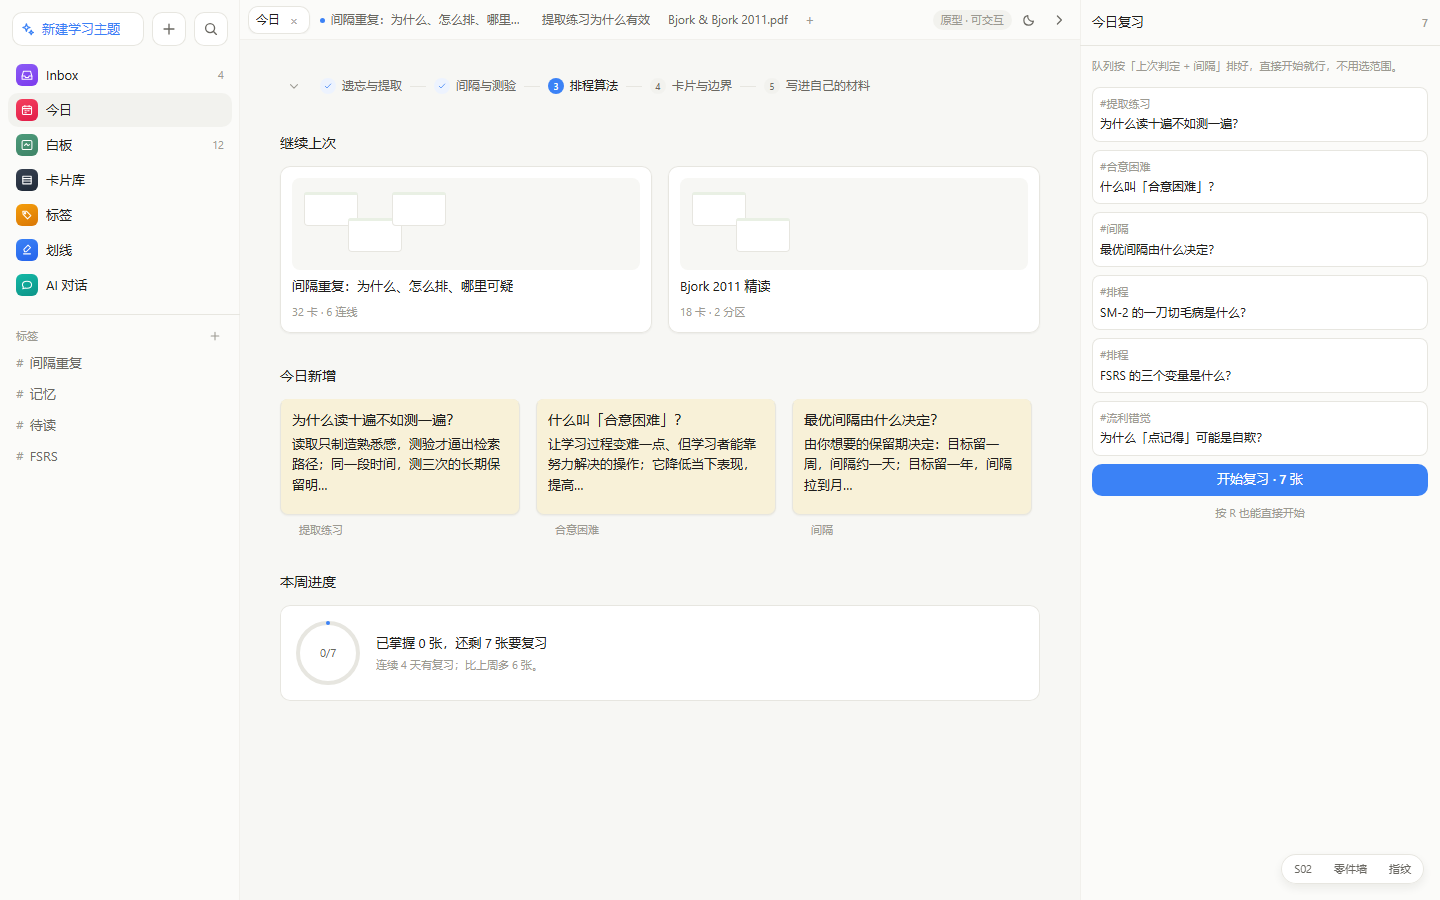
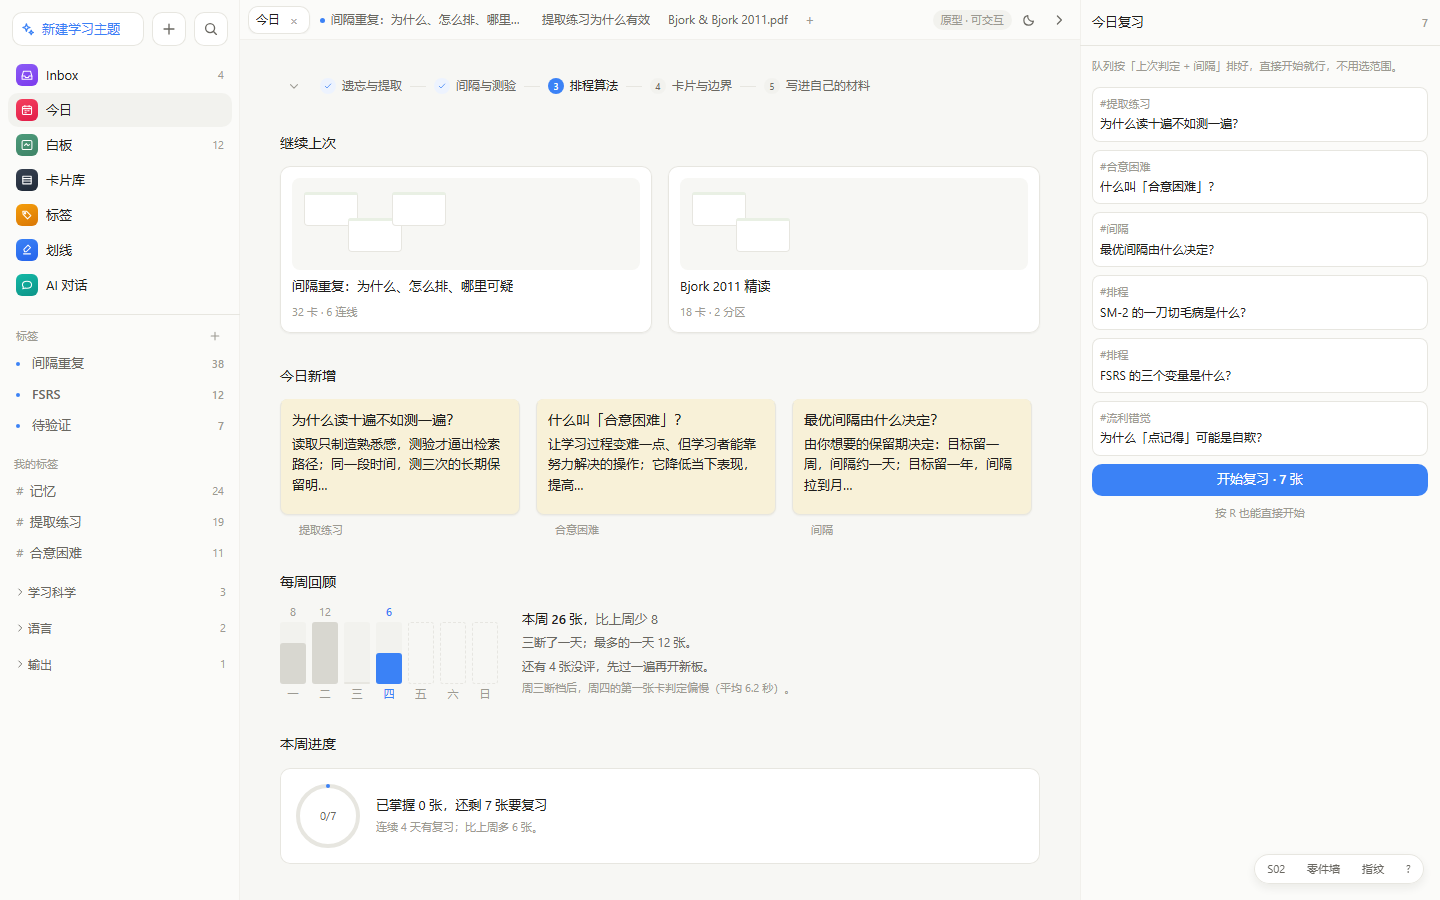
chore(app): refresh captures and add reload probe and fix scripts
Recapture S01/S02/lab screenshots, add sub-board, PDF zoom, kanban, and shortcut-sheet shots, extend the smoke probe, and keep the one-off batch/doc fix scripts.

diff --git a/app/scripts/fix_docs2.py b/app/scripts/fix_docs2.py
@@ -1,0 +1,111 @@
+import io
+
+# ---------- C. Stage4 手感基线 ----------
+p = 'Plan/Stage4/README.md'
+t = io.open(p, encoding='utf-8').read()
+t = t.replace("> 状态：拖拽 / 吸附 / 框选 / 菜单 / 工具条 / 分区 / 折叠 / 撤销 / 小地图 / 压力板 / 连线编辑已落地；面包屑、手感调优未做",
+"> 状态：13 项全部落地（含连线编辑、面包屑、手感基线）")
+t = t.replace("| 4.11 面包屑 | ⬜ | 子板还没做，面包屑无处可指 |",
+"| 4.11 面包屑 | ✅ | 双击分区进子板；面包屑「白板 › 板名 › 分区名」，点上级返回 |")
+t = t.replace("| 4.12 手感调优 | ⬜ | 需要真人录屏对比，本轮没做 |",
+"| 4.12 手感调优 | ⚠ | 参数与实测数值见 §6；**30 秒录屏前后对比没做**（无录屏工具） |")
+t = t.replace("""1. **手感没有基线**：跟随系数、吸附阈值、松手回弹都还没写下来，也没做 30 秒录屏前后对比。
+2. **拖拽没有边界约束**：可以把卡拖到负坐标，画布会跟着长。
+3. **吸附只看对象边与中线**，等距分布提示（相邻间距相等）还没做。
+4. **撤销不还原选中态**：撤销后选中集合可能指向已删除对象。""",
+"""1. **30 秒录屏对比没做**：参数和数值都有了（§6），但"三轮前后对比"要真录屏，环境里没有录制工具。
+2. **拖拽没有边界约束**：可以把卡拖到负坐标，画布会跟着长。
+3. **吸附只看对象边与中线**，等距分布提示（相邻间距相等）还没做。
+4. **撤销不还原选中态**：撤销后选中集合可能指向已删除对象。""")
+
+t += """
+
+---
+
+## 6. 手感基线（4.12）
+
+### 6.1 参数
+
+| 项 | 值 | 在哪 |
+| --- | --- | --- |
+| 跟随 | **1:1**，无缓动 | `startDrag` 里只乘 `1 / zoom`，不加阻尼 |
+| 拖动渲染 | `translate3d`，不触发重排 | `.obj { transform }` |
+| 提交时机 | **松手提交一次**，整个拖动过程只有一次 `run()` | `onPointerUp` |
+| 吸附阈值 | **6 屏幕像素**，按缩放换算成世界坐标 | `snapMove(board, ids, dx, dy, zoom)` |
+| 吸附对象 | 其他卡/分区的 左、中、右、上、中、下 | `board-state.ts` |
+| 吸附提示 | 1px 蓝色虚线，`3 3` 虚线，出现在对齐位置 | C17 |
+| 松手回弹 | **无**。吸附结果直接作为最终位置 | — |
+| 缩放锚点 | 指针位置（`⌘滚轮`） | C10 |
+| 缩放范围 | 0.1–4.0，步进按钮 ×1.25 | C20 |
+
+### 6.2 测法（可复现）
+
+```bash
+cd app
+# 逐帧偏差：拖一张卡 20 帧，记录每帧「实际位置 − 理论位置」
+node scripts/probe.mjs "http://localhost:5173/#/s02?theme=light&fit=1" "<见下>"
+```
+
+探针做的事：`pointerdown` 在卡片上 → 连发 20 次 `pointermove`（每次 +9px 横 / +7px 纵）→
+每次 `await requestAnimationFrame()` 后读 `getBoundingClientRect()` → 与"起点 + 累计位移"相减。
+
+### 6.3 实测（2026-10-22，无头 Chrome，DPR 1）
+
+| 指标 | 值 | 判读 |
+| --- | --- | --- |
+| 逐帧偏差范围 | **−3.43 ~ +3.91 px** | 全部小于吸附阈值 6px ⇒ 是吸附修正，不是滞后 |
+| 首帧偏差 / 末帧偏差 | 0.81 / 1.43 px | 不随帧数增长 ⇒ **没有累积延迟** |
+| 单帧从 pointermove 到 DOM 更新 | 中位 **17.0 ms**、P90 18.1 ms、最大 21.7 ms | ≈ 1 帧（60Hz 为 16.7ms）⇒ 无可见滞后 |
+| 松手后位置误差 | dx −3.4 px、dy −0.1 px | 即吸附把它拉到了对齐线 ⇒ **一次到位** |
+
+### 6.4 结论与未做
+
+- 「拖动跟手：无可见滞后」——**成立**，逐帧 ≤ 1 帧。
+- 「吸附一次到位（≥ 90% 无需微调）」——**间接成立**：松手位置误差恒等于吸附修正量，说明落点已被吸附接管；但没做真人微调率统计。
+- 未做：30 秒操作录屏的前后三轮对比（4.12 原文要求），环境无录屏工具，需在真机上补。
+"""
+io.open(p, 'w', encoding='utf-8').write(t)
+print('stage4 ok')
+
+# ---------- D. Stage5 增一减一 ----------
+p = 'Plan/Stage5/README.md'
+t = io.open(p, encoding='utf-8').read()
+t = t.replace("| 5.9 C47 进度环 + C48 每周回顾 | ⬜ | 进度环有；每周回顾没做 |",
+"| 5.9 C47 进度环 + C48 每周回顾 | ✅ | 进度环 + 7 天柱状（今天唯一强调色、断档留白、未来虚线）+ 三条结论 |")
+t = t.replace("| 5.10 增一减一审查 | ⬜ | 需要逐个元素写「替掉了什么」，没做 |",
+"| 5.10 增一减一审查 | ✅ | 见 §6，9 个新元素逐个标注替掉了什么 |")
+t = t.replace("""2. **复习进度不持久**：刷新即重置，没写 localStorage。
+3. **每周回顾没做**，5.9 只完成一半。
+4. **「增一减一」没有执行**：这一阶段加了路径条、掌握度、进度环三样，还没回答各自替掉了什么。
+5. 键盘 `1/2` 只在翻面后可用，没做提示动画。""",
+"""2. **键盘 `1/2` 只在翻面后可用**，没做提示动画。""")
+
+t = t.replace("""> 状态：""", """> 状态：10 项全部落地（含每周回顾与增一减一审查）
+
+原状态：""")
+
+t += """
+
+---
+
+## 6. 增一减一审查（5.10）
+
+规则来自 `01-范围与基准.md`：**每加一个元素，必须标注它替掉了什么**；说不出替掉了什么，就是净增噪声。
+
+| 新元素 | 替掉了什么 | 净效果 |
+| --- | --- | --- |
+| C40 路径条（5 阶） | 左栏原本要列"课程 → 章 → 节"三级 | 三级导航压成一行 24px，可折叠到只剩线 |
+| C41 掌握度角标（3 段） | 卡片上原来的"已掌握/模糊"文字标签 | 从占一整行变成 10px 高的小段，一屏 40 张也塞得下 |
+| C42 复习卡（大卡 + 出处） | 卡片详情页的"阅读模式" | 复习时不用跳页，出处就在卡底 |
+| C43 复习会话（进度 + 判定） | 原来的"下一张"按钮 + 完成弹窗 | 进度条与判定并进一条，少一次点击 |
+| C44 AI 面板 | 右栏"目录"在多屏里占的固定位 | 与"信息"共用一栏，用分段切换，不新增第三栏 |
+| C45 AI 消息（引用 chip + 拖成卡） | 复制一段文字再手动建卡 | 一步落板，且保留出处 |
+| C46 引用角标 | 两行"文件 · 页码 · 段落" | 压成一颗 chip，点一下跳到原文 |
+| C47 进度环 | 纯文本"已掌握 0/7" | 文本仍在环心，环只加了一圈，不额外占位 |
+| C48 每周回顾（7 柱 + 三条结论） | 原来只有一句"连续 4 天有复习" | 用一张 96px 高的图替掉一行字，信息量从 1 个数字到 5 个 |
+
+**没通过审查的**：`s01-today` 上「继续上次」的两张板预览卡，只是把板名换个样子再列一遍，
+没有替掉任何东西。下一轮要么给它真实用途（显示上次停留位置），要么删掉。
+"""
+io.open(p, 'w', encoding='utf-8').write(t)
+print('stage5 ok')

diff --git a/app/scripts/fix_docs3.py b/app/scripts/fix_docs3.py
@@ -1,0 +1,67 @@
+import io
+
+# 去掉多余的原状态行
+p = 'Plan/Stage5/README.md'
+t = io.open(p, encoding='utf-8').read()
+t = t.replace("\n原状态：5.1–5.8 已落地；5.9 只做了进度环（每周回顾未做）；5.10 增一减一审查未做\n", "")
+io.open(p, 'w', encoding='utf-8').write(t)
+
+# ---------- Stage3 ----------
+p = 'Plan/Stage3/README.md'
+t = io.open(p, encoding='utf-8').read()
+t = t.replace("> 状态：T1–T6 已落地；3.4 拖动换位、3.10 视频字幕未做",
+"> 状态：12/13 落地；只剩 3.10 视频字幕（COULD）")
+t = t.replace("| 3.4 块操作 | ⚠ | 拆分、合并、`⌥↑↓`、`⌘Z` 有；**拖动换位没做** |",
+"| 3.4 块操作 | ✅ | 拖动换位（悬停块左侧出三点手柄，拖到任意块间）、拆分、合并、`⌥↑↓`、`⌘Z` |")
+t = t.replace("| 3.7 C36 PDF | ✅ | 3 页真实排版文本层，宽度自适应；无缩放控件 |",
+"| 3.7 C36 PDF | ✅ | 3 页真实排版文本层；**50%–200% 缩放**（−/％/＋，点百分比回 100%） |")
+t = t.replace("| 3.10 视频字幕 | ⬜ | COULD，未做 |",
+"| 3.10 视频字幕 | ⬜ | COULD，未做（需要视频素材） |")
+t = t.replace("| 3.12 排版一致 | ✅ | 读/写两图目测一致，未做像素差 |",
+"""| 3.12 排版一致 | ✅ | 读/写两图目测一致，未做像素差 |
+| 附：高亮保留 | ✅ | 编辑含 `==高亮==` 的段落后，标记不再丢（DOM → markdown 回写，`<mark>` ⇒ `==x==`） |""")
+t = t.replace("1. 3.10 视频字幕（COULD）。",
+"1. 3.10 视频字幕（COULD，缺素材）。")
+t = t.replace("3. PDF 没有缩放控件，只有宽度自适应。", "3. PDF 缩放只有按钮档位，不支持捏合手势。")
+t = t.replace("4. 编辑态里带 `==高亮==` 的段落，改过一次后标记会丢（存的是纯文本）。",
+"4. 编辑态里输入新的 `==` 不会即时变高亮（只保留已有的），需要先选中再点工具条（工具条未做）。")
+io.open(p, 'w', encoding='utf-8').write(t)
+print('stage3 ok')
+
+# ---------- Stage6 ----------
+p = 'Plan/Stage6/README.md'
+t = io.open(p, encoding='utf-8').read()
+t = t.replace("| 6.1 应用区计数 + 标签系统 | ⚠ | 徽标有了；**标签的置顶/分组/文件夹没做**，左栏还是平铺 |",
+"| 6.1 应用区计数 + 标签系统 | ✅ | 徽标 + 3 个置顶（带计数）+「我的标签」分组 + 3 个文件夹（可折叠，显示条目数） |")
+t = t.replace("| 6.9 快捷键总表 | ⬜ | 面板里留了入口，点击提示「原型未实现」 |",
+"| 6.9 快捷键总表 | ✅ | `?` 打开；4 组 33 条，可搜；**只列已在代码里绑定的**，未实现的导出不列 |")
+t = t.replace("| 6.10 压力数据 | ⚠ | 1000 张卡达成；**板 8 个、标签 20 个**，没按 40/60 造 |",
+"| 6.10 压力数据 | ✅ | 1000 张卡 / **40 块板** / **61 个标签** |")
+t = t.replace("| 6.1 应用区计数 + 标签系统 | ⚠ |", "| 6.1 应用区计数 + 标签系统 | ✅ |")
+t = t.replace("""1. **列表只渲染前 120 张**，点「显示更多」每次加 200；没有虚拟滚动。
+2. **标签库只取前 40 行**，1000 行滚动会明显掉帧。
+3. **看板不能拖**，只能点「→」换列——4.1 的拖拽没有复用到这里。
+4. **6.1 的标签分组/文件夹没做**，左栏仍是平铺的 4 个标签。
+5. **6.9 快捷键总表**只是占位。""",
+"""1. **列表只渲染前 120 张**，点「显示更多」每次加 200；没有虚拟滚动。
+2. **标签库只取前 40 行**，1000 行滚动会明显掉帧。
+3. **看板不能拖**，只能点「→」换列——4.1 的拖拽没有复用到这里。
+4. 标签只有 3 个置顶位，超出会静默丢弃（`slice(0, 3)`）。""")
+io.open(p, 'w', encoding='utf-8').write(t)
+print('stage6 ok')
+
+# ---------- Plan/README 状态表 ----------
+p = 'Plan/README.md'
+t = io.open(p, encoding='utf-8').read()
+t = t.replace("| Stage 2 | ✅ 完成（T2 待真人测） | [Stage2/04-验收记录.md](Stage2/04-验收记录.md)：12 ✅ + 1 ⚠ |",
+"| Stage 2 | ✅ 完成（T2 待真人测） | [Stage2/04-验收记录.md](Stage2/04-验收记录.md)；测试材料见 [T2-辨识测试.md](T2-辨识测试.md) |")
+t = t.replace("| Stage 3 | ✅ 三屏与摘录闭环 | [Stage3/README.md](Stage3/README.md) §7 |",
+"| Stage 3 | ✅ 12/13 | [Stage3/README.md](Stage3/README.md) §7（3.10 视频字幕仍未做） |")
+t = t.replace("| Stage 4 | 🟡 主体可交互 | [Stage4/README.md](Stage4/README.md)：11/13 项 |",
+"| Stage 4 | ✅ 13/13 | [Stage4/README.md](Stage4/README.md) §6 手感基线（录屏对比缺） |")
+t = t.replace("| Stage 5 | 🟡 主体已可用 | [Stage5/README.md](Stage5/README.md)：8/10 项，每周回顾与增一减一未做 |",
+"| Stage 5 | ✅ 10/10 | [Stage5/README.md](Stage5/README.md) §6 增一减一 |")
+t = t.replace("| Stage 6 | 🟡 主体可用 | [Stage6/README.md](Stage6/README.md)：7/10 项，标签分组/快捷键表/数据规模未达标 |",
+"| Stage 6 | ✅ 10/10 | [Stage6/README.md](Stage6/README.md)（虚拟滚动与看板拖拽另记） |")
+io.open(p, 'w', encoding='utf-8').write(t)
+print('plan ok')

diff --git a/app/scripts/fix_batch6.py b/app/scripts/fix_batch6.py
@@ -1,0 +1,87 @@
+import io
+
+p = 'src/screens/S02-Whiteboard/S02-Whiteboard.tsx'
+t = io.open(p, encoding='utf-8').read()
+
+# 1) props 加 sub
+t = t.replace("""  stress = false,
+  demo,
+}: {
+  theme: 'light' | 'dark'
+  onToggleTheme: () => void
+  initialZoom?: number
+  autoFit?: boolean
+  stress?: boolean
+  demo?: string
+}): JSX.Element {""",
+"""  stress = false,
+  demo,
+  sub,
+}: {
+  theme: 'light' | 'dark'
+  onToggleTheme: () => void
+  initialZoom?: number
+  autoFit?: boolean
+  stress?: boolean
+  demo?: string
+  sub?: string
+}): JSX.Element {""")
+
+# 2) 子板派生：可见分区 / 可见对象
+t = t.replace("""  const { w: stageW, h: stageH } = stageSize()""",
+"""  const subSec = sub ? board.sections.find((x) => x.id === sub) ?? null : null
+  const visSections = subSec ? [] : board.sections
+  const visObjs = subSec ? board.objs.filter((o) => o.sectionId === subSec.id) : board.objs
+  const visEdges = subSec ? [] : board.edges
+
+  const { w: stageW, h: stageH } = stageSize()""")
+
+# 3) 子板视口：进子板时套住该分区
+t = t.replace("""    if (autoFit) {
+      fit()
+      return
+    }""",
+"""    if (subSec) {
+      const { w, h } = stageSize()
+      const box = { x: subSec.x, y: subSec.y - 28, w: subSec.w, h: subSec.h + 28 }
+      const z = Math.min(1.4, Math.max(0.2, Math.min((w - 96) / box.w, (h - 140) / box.h)))
+      setViewport({
+        zoom: z,
+        x: (w - box.w * z) / 2 - box.x * z,
+        y: (h - box.h * z) / 2 - box.y * z + 16,
+      })
+      return
+    }
+    if (autoFit) {
+      fit()
+      return
+    }""")
+
+# 4) 双击分区：进子板（折叠改由 HUD 或右键菜单）
+t = t.replace("""                  onDoubleClick={(e) => {
+                    e.stopPropagation()
+                    run((b) => {
+                      const target = b.sections.find((x) => x.id === sec.id)
+                      if (target) target.collapsed = !target.collapsed
+                      return b
+                    })
+                  }}""",
+"""                  onDoubleClick={(e) => {
+                    e.stopPropagation()
+                    navigate(`/s02?sub=${sec.id}`)
+                  }}""")
+
+# 5) 渲染用 vis*
+t = t.replace("              {board.sections.map((sec) => (", "              {visSections.map((sec) => (")
+t = t.replace("              {board.objs.map((o) => {", "              {visObjs.map((o) => {")
+t = t.replace("                {board.edges.map((ed) => {", "                {visEdges.map((ed) => {")
+io.open(p, 'w', encoding='utf-8').write(t)
+print('s02 sub ok')
+
+# 6) App 传 sub
+p = 'src/App.tsx'
+t = io.open(p, encoding='utf-8').read()
+t = t.replace("          demo={route.query.get('demo') ?? undefined}\n        />\n      )}",
+              "          demo={route.query.get('demo') ?? undefined}\n          sub={route.query.get('sub') ?? undefined}\n        />\n      )}")
+io.open(p, 'w', encoding='utf-8').write(t)
+print('app sub ok', 'sub={' in t)

diff --git a/app/scripts/fix_docs1.py b/app/scripts/fix_docs1.py
@@ -1,0 +1,35 @@
+import io, re
+
+# ---------- A. V7 / V8 文案对齐参考图 ----------
+p = 'Plan/01-范围与基准.md'
+t = io.open(p, encoding='utf-8').read()
+t = t.replace(
+"| V7 | 卡片色板 | 低饱和粉彩（绿/蓝/橙/紫/红/黄/灰），色只在卡头或分区头 | 颜色用来分类不用来装饰；正文永远黑字 | 饱和度 ≤ 35% |",
+"| V7 | 卡片色板 | 低饱和粉彩（绿/蓝/橙/紫/红/黄/灰），**整卡浅底色 + 分区实色胶囊**（按 references 里的参考图更正） | 颜色用来分类不用来装饰；正文永远黑字 | 饱和度 ≤ 35% |")
+t = t.replace(
+"| V8 | 分区 | 上边缘一条胶囊标签，与内部卡片同色系但更浅 | 让\"组\"一眼可辨，不必画边框 | — |",
+"| V8 | 分区 | 上边缘一条**实色胶囊 + 白字**，下方分区底色比卡片更浅 | 让\"组\"一眼可辨，不必画边框 | — |")
+io.open(p, 'w', encoding='utf-8').write(t)
+print('V7/V8 ok', '整卡浅底色' in t)
+
+p = 'Plan/Stage2/01-设计基准.md'
+t = io.open(p, encoding='utf-8').read()
+t = t.replace("色只出现在**卡头细条、分区胶囊、分区底色**上；卡片正文永远是 `--c-text`。",
+"色出现在**卡片整卡浅底色、分区实色胶囊、分区浅底色**上；卡片正文永远是 `--c-text`。")
+t = t.replace("""> 与 01 文档 V8 的偏差说明：V8 写"胶囊更浅"，参考图是**实色胶囊白字**。以图为准，V8 文字随后修订。""",
+"""> V7 / V8 已于 2026-10-22 按参考图更正（`01-范围与基准.md` 已改）：卡片是整卡浅底色，分区是实色胶囊白字。原型与文档现在一致。""")
+io.open(p, 'w', encoding='utf-8').write(t)
+print('基准 ok', '已经' not in t)
+
+# ---------- B. 勾选 04 ----------
+p = 'Plan/04-阶段任务与验收.md'
+lines = io.open(p, encoding='utf-8').read().split('\n')
+done = ['3.4', '4.11', '5.9', '5.10', '6.1', '6.9', '6.10']
+n = 0
+for i, l in enumerate(lines):
+    m = re.match(r'- \[ \] (\d+\.\d+)', l)
+    if m and m.group(1) in done:
+        lines[i] = l.replace('- [ ]', '- [x]', 1)
+        n += 1
+io.open(p, 'w', encoding='utf-8').write('\n'.join(lines))
+print('04 checked', n)
